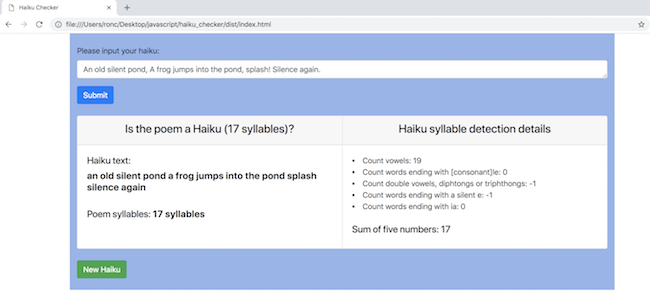
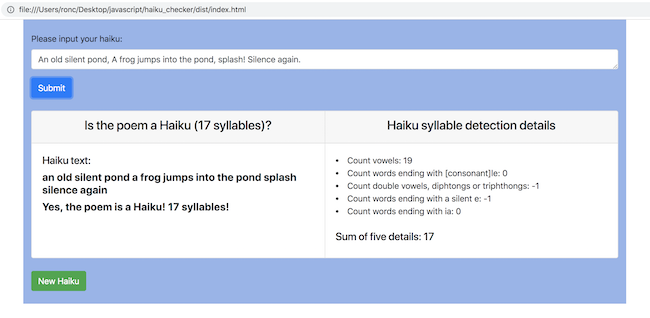
edit readme, add two screenshots :books:

diff --git a/readme.md b/readme.md
@@ -4,6 +4,8 @@
 
 <kbd><img src="./img/screen-shot.png" alt="Haiku Checker Screenshot"></kbd>
 
+<kbd><img src="./img/screen-shot-no.png" alt="Haiku Checker Screenshot, not a Haiku"></kbd>
+
 ## Epicodus two day project: started 03/14-15/2018
 
 ## GitHub repository: https://github.com/r-craig73/haiku_checker
@@ -37,8 +39,8 @@
 ## Running the application
 * In the home directory, build the code by running `$ npm run build`
 * Open `haiku_checker/dist/index.html` in a Chrome browser to run the application
-* Or...
-* In the home directory, run `$ npm start build`.  Webpack will automatically start a development server in a web browser at http://localhost:8080/. Updates in the application will be saved instantly.
+* ~~Or...~~
+* ~~In the home directory, run `$ npm start build`.  Webpack will automatically start a development server in a web browser at http://localhost:8080/. Updates in the application will be saved instantly.~~  Not working!
 
 ## Testing setup
 * Clone the repository
@@ -50,7 +52,7 @@
 * No function to separate combined words like `whitecap`
 * No functions detecting difficult American words
 * Webpack issue running `$ npm start build`. "ERROR in multi (webpack)-dev-server/client?http://localhost:8080 build
-Module not found: Error: Can't resolve 'build' in '/Users/ronc/Desktop/javascript/haiku_checker'
+Module not found: Error: Can't resolve 'build' in '.../haiku_checker'
  @ multi (webpack)-dev-server/client?http://localhost:8080 build main[1]"
  
 
